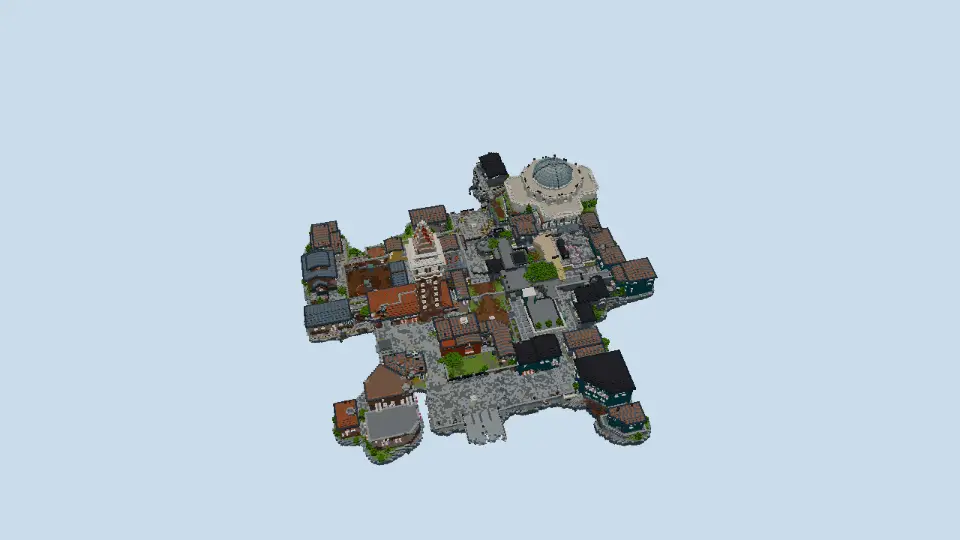
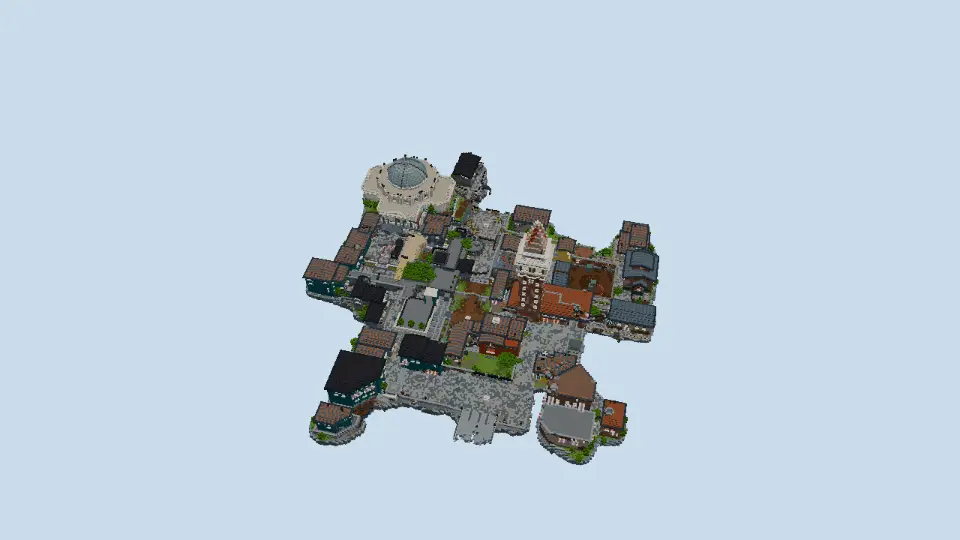
Dusk District is back, made our own: mirrored, with our own cover
User request: keep the map, change its structure a little.
- js/ascent-trial.js draws and collides the supplied terrain mirrored left
  to right (MIRROR): the sites, spawns and lanes swap sides (A right, B
  left); the faces' winding is put back so the lighting is unchanged.
- ownCover() stands eight crate stacks of our own (two boxes each, with
  colliders) in mid and on the way to each site, only on flat clear floor
  away from sites and spawns, before the bots' navigation is built.
- Listed again (22 maps); the dev flag and the tests' use of it are gone.
  The terrain file and its checks are unchanged. New overhead picture
  (?v=district-own-1), map page, credits and patch note.

Claude-Session: https://claude.ai/code/session_01T9NoSmLvW4H6Gnw8XUkAyE

Changed region(s): [[0.3125, 0.2667, 0.6875, 0.8593]]

diff --git a/js/ascent-trial.js b/js/ascent-trial.js
@@ -2,10 +2,9 @@
 (() => {
   'use strict';
   const trial=new URLSearchParams(location.search).get('ascent-trial')==='1';
-  // Dusk District is built on a layout the owner supplied (an outside game's map, permission not confirmed): since 2026-11-07
-  // it is out of the public map list, the home button and the site pages. It is still here, and listed, with ?hidden-maps=1
-  // (or localStorage dfdf_hidden_maps=1) for development and its checks; a room that still names it can load it.
-  const listed=trial||new URLSearchParams(location.search).get('hidden-maps')==='1'||(()=>{try{return localStorage.getItem('dfdf_hidden_maps')==='1';}catch(e){return false;}})();
+  // Dusk District: the supplied layout, made our own on 2026-11-07 (mirrored, with our own cover; see MIRROR and ownCover
+  // below). It was out of the public list for a day and is back in it at the owner's request.
+  const listed=true;
   const KEY='ascent_trial', S=window.ASCENT_TRIAL={status:'idle',active:false,meshes:[],meta:null,listed};
   const panel=document.createElement('section');panel.id='ascent-trial';panel.setAttribute('aria-label','황혼 지구 불러오기');
   panel.style.cssText='position:fixed;left:16px;bottom:18px;z-index:10020;max-width:380px;padding:18px;background:#101c29f2;color:#eef6ff;border:1px solid #64b8b0;border-radius:12px;font:14px/1.6 sans-serif;box-shadow:0 8px 32px #0008';
@@ -49,7 +48,11 @@
   const profileFor=mode=>mode==='mobile'?'mobile':'original';
   const on=()=>S.active&&CUR_MAP_KEY===KEY;
   const horizontalScale=()=>S.meta.horizontalScale||S.meta.scale;
-  const sourcePoint=(x,z,y=7.5)=>({x:(x-S.meta.sourceCropMin[0]-S.meta.dimensions[0]/2)*horizontalScale(),z:(z-S.meta.sourceCropMin[2]-S.meta.dimensions[2]/2)*horizontalScale(),y});
+  // Our own layout (2026-11-07, the owner's request: "구조만 조금 바꿔서"): the supplied terrain is drawn and collided
+  // mirrored left to right, so the sites, the spawns and every lane are on the other side, and our own cover stands in
+  // mid and on the site approaches (ownCover below). The terrain file itself is unchanged (its checks stay as they were).
+  const MIRROR=-1;
+  const sourcePoint=(x,z,y=7.5)=>({x:MIRROR*(x-S.meta.sourceCropMin[0]-S.meta.dimensions[0]/2)*horizontalScale(),z:(z-S.meta.sourceCropMin[2]-S.meta.dimensions[2]/2)*horizontalScale(),y});
   function nearby(x,z,r=PR) {
     if (CHASH.dirty||!CHASH.buckets) chashBuild();
     const found=new Set(), out=[];
@@ -105,7 +108,7 @@
     renderProfile=null;
   }
   function clear() {
-    graphicsRevision++;clearMeshes();S.graphicsMessage='';S.graphicsStatus='idle';
+    graphicsRevision++;clearMeshes();clearCover();S.graphicsMessage='';S.graphicsStatus='idle';
     if(S.active){floor.visible=true;window.SITE_ZONES?.clear();delete world.spike.y;}
     S.active=false;navHeight=null;navEdges=null;S.nav=null;
     if(previousNav){NAV.length=0;NAV.push(...previousNav);GRID.cell=previousCell;previousNav=null;}
@@ -135,11 +138,11 @@
     for(let i=0;i<n;i++) {
       const p=16+i*24, q=Array.from({length:9},(_,a)=>(a<3?d.getUint16(p+a*2,true):d.getInt16(p+a*2,true))*units[a%3]),tile=palette?d.getUint16(p+21,true):0,info=palette?.tiles[tile],transparent=!!info?.transparent,k=Math.floor(q[0]/chunkSize)+','+Math.floor(q[2]/chunkSize)+','+Math.floor(q[1]/chunkSize)+','+transparent;
       if(!chunks.has(k))chunks.set(k,{pos:[],normal:[],color:[],uv:[],atlas:[],indices:[],transparent});
-      const c=chunks.get(k),base=c.pos.length/3,u=q.slice(3,6),v=q.slice(6,9),normal=new T.Vector3(...u).cross(new T.Vector3(...v)).normalize();
+      const c=chunks.get(k),base=c.pos.length/3,u=q.slice(3,6),v=q.slice(6,9),normal=new T.Vector3(...u).cross(new T.Vector3(...v)).normalize(),drawn=new T.Vector3(MIRROR*normal.x,normal.y,normal.z);
       const color=new T.Color((d.getUint8(p+18)<<16)|(d.getUint8(p+19)<<8)|d.getUint8(p+20));
       for(const [a,b] of [[0,0],[1,0],[1,1],[0,1]]) {
-        for(let j=0;j<3;j++)c.pos.push(q[j]+a*u[j]+b*v[j]+origin[j]);
-        c.normal.push(normal.x,normal.y,normal.z);c.color.push(color.r,color.g,color.b);
+        for(let j=0;j<3;j++)c.pos.push((q[j]+a*u[j]+b*v[j]+origin[j])*(j?1:MIRROR));
+        c.normal.push(drawn.x,drawn.y,drawn.z);c.color.push(color.r,color.g,color.b);
         if(palette){
           const pos=q.slice(0,3).map((x,j)=>(x+a*u[j]+b*v[j])/(units[j]*16)),n=normal;
           let uv=Math.abs(n.y)>.9?[pos[0],n.y>0?-pos[2]:pos[2]]:Math.abs(n.x)>.9?[n.x>0?-pos[2]:pos[2],pos[1]]:[n.z>0?pos[0]:-pos[0],pos[1]];
@@ -149,7 +152,8 @@
           c.atlas.push(x+pad,palette.height-y-pad-size,size,size);
         }
       }
-      c.indices.push(base,base+1,base+2,base,base+2,base+3);
+      // a mirror turns every face's winding round: put it back, so the lit side stays the front side
+      MIRROR>0?c.indices.push(base,base+1,base+2,base,base+2,base+3):c.indices.push(base,base+2,base+1,base,base+3,base+2);
     }
     for(const c of chunks.values()) {
       const g=new T.BufferGeometry();g.setAttribute('position',new T.Float32BufferAttribute(c.pos,3));g.setAttribute('normal',new T.Float32BufferAttribute(c.normal,3));g.setAttribute('color',new T.Float32BufferAttribute(c.color,3));g.setIndex(c.indices);g.computeBoundingSphere();
@@ -161,10 +165,52 @@
     let p=16+n*24;
     for(let i=0;i<count;i++,p+=12) {
       const b=Array.from({length:6},(_,a)=>d.getUint16(p+a*2,true)*units[a%3]+origin[a%3]);
-      COLLIDERS.push({minX:b[0],y0:b[1],minZ:b[2],maxX:b[3],h:b[4],maxZ:b[5],mesh:null,hp:Infinity,destructible:false,temp:false,ascent:true});
+      const x0=MIRROR>0?b[0]:-b[3],x1=MIRROR>0?b[3]:-b[0];
+      COLLIDERS.push({minX:x0,y0:b[1],minZ:b[2],maxX:x1,h:b[4],maxZ:b[5],mesh:null,hp:Infinity,destructible:false,temp:false,ascent:true});
     }
     CHASH.dirty=true;chashBuild();
   }
+  // ── our own cover: crate stacks in mid and on the way to each site, only where the floor is flat and clear ──
+  // (part of our own layout with the mirror above; placed before the bots' navigation is built, so they walk round them)
+  S.cover=[];
+  let coverMat=null,coverEdge=null;
+  function clearCover(){
+    for(const m of S.cover){scene.remove(m);m.geometry.dispose();}
+    S.cover.length=0;
+  }
+  function ownCover(){
+    clearCover();
+    coverMat||(coverMat=new T.MeshLambertMaterial({color:0x8a6b47}));coverEdge||(coverEdge=new T.MeshLambertMaterial({color:0x3b3f46}));
+    const L=S.meta.layout,mid=sourcePoint(...L.nodes.mid);
+    const sites=L.sites.map(([,x,z,y])=>sourcePoint(x,z,y)),keep=[...sites,sourcePoint(...L.attackSpawn),sourcePoint(...L.defendSpawn)];
+    const cands=[];
+    for(const d of [5,7.5])for(const s of [-1,1])cands.push({x:mid.x+s*d,z:mid.z,y:mid.y},{x:mid.x,z:mid.z+s*d,y:mid.y});
+    for(const t of sites)for(const f of [.35,.6]){
+      const len=Math.hypot(t.x-mid.x,t.z-mid.z)||1,px=-(t.z-mid.z)/len,pz=(t.x-mid.x)/len,x=mid.x+(t.x-mid.x)*f,z=mid.z+(t.z-mid.z)*f;
+      for(const s of [-1,1])cands.push({x:x+px*s*3.5,z:z+pz*s*3.5,y:mid.y+(t.y-mid.y)*f});
+    }
+    const placed=[];
+    for(const c of cands){
+      if(placed.length>=8)break;
+      const y=surface(c.x,c.z,c.y+4,1.6);
+      if(!Number.isFinite(y))continue;
+      // flat: the same floor under every corner; clear: nothing solid in the stack's room; not on a site or a spawn
+      if([[-1.2,-1.2],[1.2,-1.2],[-1.2,1.2],[1.2,1.2]].some(([dx,dz])=>Math.abs(surface(c.x+dx,c.z+dz,y+.5,.3)-y)>.3))continue;
+      if(nearby(c.x,c.z,1.8).some(b=>b.h>y+.2&&b.y0<y+2.6&&c.x+1.8>b.minX&&c.x-1.8<b.maxX&&c.z+1.8>b.minZ&&c.z-1.8<b.maxZ))continue;
+      if(keep.some(p=>Math.hypot(p.x-c.x,p.z-c.z)<6)||placed.some(p=>Math.hypot(p.x-c.x,p.z-c.z)<4.5))continue;
+      placed.push(c);
+      const boxes=[[0,0,2.2,1.5,2.2],[.35,1.5,1.2,.9,1.2]];
+      for(const [ox,oy,w,h,dpt] of boxes){
+        const cx=c.x+ox,cz=c.z+ox*.5;
+        const m=new T.Mesh(new T.BoxGeometry(w,h,dpt),coverMat);m.position.set(cx,y+oy+h/2,cz);m.userData.ascent=true;scene.add(m);S.cover.push(m);
+        const band=new T.Mesh(new T.BoxGeometry(w+.04,.12,dpt+.04),coverEdge);band.position.set(cx,y+oy+h-.06,cz);band.userData.ascent=true;scene.add(band);S.cover.push(band);
+        COLLIDERS.push({minX:cx-w/2,y0:y+oy,minZ:cz-dpt/2,maxX:cx+w/2,h:y+oy+h,maxZ:cz+dpt/2,mesh:null,hp:Infinity,destructible:false,temp:false,ascent:true,cover:true});
+      }
+    }
+    CHASH.dirty=true;chashBuild();
+    return placed.length;
+  }
+  S.ownCover=()=>S.cover.length;
   // A street under a bridge and the bridge deck are separate navigation nodes.
   // Sampling just one height per x/z disconnected the supplied map's real lanes.
   const DIRS=[[1,0],[-1,0],[0,1],[0,-1]],REVERSE=[1,0,3,2];
@@ -338,7 +384,7 @@
     POST.tint=[1.02,1,.98];POST.lift=[0,0,0];POST.sat=.96;POST.contrast=1;POST.vignette=.12;
     hemi.color.setHex(0xdceaf4);hemi.groundColor.setHex(0xa59388);hemi.intensity=1;
     sun.color.setHex(0xffd7ae);sun.intensity=1.05;renderer.toneMappingExposure=1;
-    geometry(renderAssets.get(profileFor(SETTINGS.quality))||renderAssets.values().next().value,true);floor.visible=false;buildNav();window.SITE_ZONES?.rebuild();
+    geometry(renderAssets.get(profileFor(SETTINGS.quality))||renderAssets.values().next().value,true);floor.visible=false;S.coverPlaced=ownCover();buildNav();window.SITE_ZONES?.rebuild();
     S.applyGraphics(SETTINGS.quality);
     NAV.length=0;NAV.push(...Object.values(MAP.nodes));
     if(VM.root&&!VM.root.parent)scene.add(VM.root);

diff --git a/maps.html b/maps.html
@@ -3,16 +3,16 @@
 <html lang="ko">
 <head>
 <meta charset="utf-8">
-<title>맵 21곳 | 13</title>
+<title>맵 22곳 | 13</title>
 <meta name="viewport" content="width=device-width,initial-scale=1,viewport-fit=cover">
 <meta name="theme-color" content="#0a0d12">
-<meta name="description" content="13의 맵 21곳을 크기별(5대5, 소규모 3대3, 1대1)로 소개합니다. 각 맵의 구조와 특징, 공략 팁, 매주 바뀌는 이번 주 맵 규칙까지.">
+<meta name="description" content="13의 맵 22곳을 크기별(5대5, 소규모 3대3, 1대1)로 소개합니다. 각 맵의 구조와 특징, 공략 팁, 매주 바뀌는 이번 주 맵 규칙까지.">
 <link rel="canonical" href="https://13fps.xyz/maps.html">
 <meta property="og:site_name" content="13">
 <meta property="og:type" content="website">
 <meta property="og:locale" content="ko_KR">
-<meta property="og:title" content="맵 21곳 | 13">
-<meta property="og:description" content="13의 맵 21곳을 크기별(5대5, 소규모 3대3, 1대1)로 소개합니다. 각 맵의 구조와 특징, 공략 팁, 매주 바뀌는 이번 주 맵 규칙까지.">
+<meta property="og:title" content="맵 22곳 | 13">
+<meta property="og:description" content="13의 맵 22곳을 크기별(5대5, 소규모 3대3, 1대1)로 소개합니다. 각 맵의 구조와 특징, 공략 팁, 매주 바뀌는 이번 주 맵 규칙까지.">
 <meta property="og:url" content="https://13fps.xyz/maps.html">
 <meta property="og:image" content="https://13fps.xyz/icons/icon-512.png">
 <meta name="twitter:card" content="summary">
@@ -31,13 +31,13 @@
 </div></header>
 <main id="main" class="wrap">
 <article class="page wide">
-<h1>맵 21곳</h1>
-<p class="lead">13의 맵은 팀 크기에 따라 세 종류입니다. 5대5 10곳, 소규모 3대3 8곳, 1대1 3곳을 모두 소개합니다.</p>
-<nav class="filters" aria-label="맵 종류로 이동"><a href="#cat-full">5대5 10곳</a><a href="#cat-small">소규모 3대3 8곳</a><a href="#cat-1v1">1대1 3곳</a><a href="#week">이번 주 맵</a></nav>
+<h1>맵 22곳</h1>
+<p class="lead">13의 맵은 팀 크기에 따라 세 종류입니다. 5대5 11곳, 소규모 3대3 8곳, 1대1 3곳을 모두 소개합니다.</p>
+<nav class="filters" aria-label="맵 종류로 이동"><a href="#cat-full">5대5 11곳</a><a href="#cat-small">소규모 3대3 8곳</a><a href="#cat-1v1">1대1 3곳</a><a href="#week">이번 주 맵</a></nav>
 <h2>맵을 읽는 법</h2>
 <p>아래 그림은 공격 팀 출발 지점 뒤에서 맵 한가운데를 내려다본 모습입니다. 그림의 아래쪽이 공격 팀의 출발 지점이고 위쪽이 수비 팀의 출발 지점이며, 분홍빛 원은 폭탄을 설치하는 사이트입니다. 사이트는 대부분 A와 B 두 곳이고, 세 곳(A, B, C)이 있는 맵도 있습니다. 크기는 가로×세로 미터입니다.</p>
 <p>팀 크기는 방의 빈자리에도 영향을 줍니다. 소규모 맵에서는 한 팀이 세 명, 결투 맵에서는 한 명이고, 남는 자리는 닫힙니다. 팀 데스매치와 데스매치의 킬 목표도 맵 크기에 맞춰 줄어듭니다.</p>
-<h2 id="cat-full">5대5 맵 10곳</h2><p>정식 대전용 큰 맵입니다. 한 팀 다섯 명이 길을 나눠 맡고, 사이트 둘 또는 셋을 두고 겨룹니다.</p><div class="maps"><section class="map" id="map-pogu">
+<h2 id="cat-full">5대5 맵 11곳</h2><p>정식 대전용 큰 맵입니다. 한 팀 다섯 명이 길을 나눠 맡고, 사이트 둘 또는 셋을 두고 겨룹니다.</p><div class="maps"><section class="map" id="map-pogu">
 <img src="./assets/site/maps/pogu.webp" alt="포구 맵을 위에서 본 모습" width="960" height="540" loading="lazy">
 <div class="body"><h3>포구</h3>
 <p class="facts"><span class="tag red">5대5</span><span class="tag">148×160m</span><span class="tag">사이트 A · B</span><span class="tag gold">저녁빛 항구 마을</span></p>
@@ -96,6 +96,12 @@
 <div class="body"><h3>폐병원</h3>
 <p class="facts"><span class="tag red">5대5</span><span class="tag">120×100m</span><span class="tag">사이트 A · B</span><span class="tag gold">3층짜리 폐병원 미로</span></p>
 <p>건물 전체가 미로인 폐병원입니다. 1층은 응급실, 중앙 로비, 하역장의 입구 셋과 5m 크기의 방들로 이어진 병동 둘, 30m 크기의 중앙 아트리움이 있고, 뒤쪽에 수술실(A)과 약품 창고(B), 그 사이에 수비 팀의 중환자실이 있습니다. 2층에는 아트리움을 둘러싼 발코니에서 아래로 쏠 수 있고, 3층에는 지붕 아래 두 날개 미로와 옥상 데크, 아트리움을 가로지르는 다리가 있습니다. 바닥은 진짜 층이라 그 아래와 위를 따로 걸을 수 있습니다.</p><p><b>팁</b> 층이 여러 개라서 머리 위와 발밑도 확인해야 합니다. 봇은 1층에서만 움직입니다.</p></div>
+</section>
+<section class="map" id="map-ascent_trial">
+<img src="./assets/site/maps/ascent_trial.webp?v=district-own-1" alt="황혼 지구 맵을 위에서 본 모습" width="960" height="540" loading="lazy">
+<div class="body"><h3>황혼 지구</h3>
+<p class="facts"><span class="tag red">5대5</span><span class="tag">361×390m</span><span class="tag">사이트 A · B</span><span class="tag gold">좌우가 뒤바뀐 넓은 중앙과 두 설치 구역</span></p>
+<p>제공받은 블록 맵 구조를 바탕으로 좌우를 뒤집고, 중앙과 각 설치 구역 진입로에 이 게임의 상자 엄폐물을 더한 5대5 지구입니다. 구리색 지붕·푸른 석재·밝은 벽과 조명은 이 게임에서 직접 만들었습니다.</p><p><b>팁</b> A 거점은 오른쪽, B 거점은 왼쪽입니다. 중앙의 상자 더미를 끼고 도는 길이 짧습니다.</p></div>
 </section></div>
 <h2 id="cat-small">소규모 3대3 맵 8곳</h2><p>한 팀 세 명이 하기 좋은 작은 맵입니다. 길이 짧아 교전이 빨리 시작됩니다. 장벽이 움직이는 시프트 아레나와 달리는 열차 같은 변칙 맵도 여기 있습니다.</p><div class="maps"><section class="map" id="map-shift">
 <img src="./assets/site/maps/shift.webp" alt="시프트 아레나 맵을 위에서 본 모습" width="960" height="540" loading="lazy">
@@ -164,7 +170,7 @@
 <p>모래색 바닥에 가로로 넓은 1대1 마당입니다. 가운데에 돌 단상이 있고 지붕이 어두운 전각 네 채가 대각선으로 놓여 있습니다.</p><p><b>팁</b> 가로로 넓어 측면에서 돌아 들어가기 쉽습니다. 단상을 차지하면 양쪽이 보입니다.</p></div>
 </section></div>
 <h2 id="week">이번 주 맵</h2>
-<p>정규 목록 21곳 말고도, 평소에는 목록에서 빠져 있는 맵 36곳이 더 있습니다. 매주 월요일 0시(한국 시간)가 되면 그중 한 곳이 "이번 주 맵"으로 일주일 동안 맵 목록 맨 앞에 올라옵니다. 모든 이용자에게 같은 맵이 보이고, 한 바퀴를 다 돌기 전에는 같은 맵이 다시 나오지 않습니다. 이번 주 맵은 첫 화면의 게임 설명 줄에도 표시됩니다. 운영자가 이 기능을 끌 수도 있습니다.</p>
+<p>정규 목록 22곳 말고도, 평소에는 목록에서 빠져 있는 맵 36곳이 더 있습니다. 매주 월요일 0시(한국 시간)가 되면 그중 한 곳이 "이번 주 맵"으로 일주일 동안 맵 목록 맨 앞에 올라옵니다. 모든 이용자에게 같은 맵이 보이고, 한 바퀴를 다 돌기 전에는 같은 맵이 다시 나오지 않습니다. 이번 주 맵은 첫 화면의 게임 설명 줄에도 표시됩니다. 운영자가 이 기능을 끌 수도 있습니다.</p>
 <p>맵마다 어울리는 모드가 있습니다. <a href="./modes.html">모드 소개</a>에서 규칙을 확인하고, 요원 조합은 <a href="./agents.html">요원 소개</a>를 참고하세요.</p>
 </article>
 </main>

diff --git a/index.html b/index.html
@@ -364,7 +364,7 @@ html[lang=en] .intro[lang=ko],html:not([lang=en]) .intro[lang=en]{display:none}
   <section class="intro" lang="ko">
     <h2>13은 이런 게임입니다</h2>
     <p>13은 설치 없이 브라우저에서 바로 하는 5대5 전술 슈터입니다. 공격 팀은 폭탄을 설치하고 수비 팀은 이를 막으며, 요원마다 다른 능력으로 길을 엽니다. 혼자서는 AI와, 친구와는 초대 코드로 함께 할 수 있고 컴퓨터와 스마트폰 모두 됩니다. 처음이라면 게임 소개와 조작법부터 읽어 보세요. 모드, 맵, 요원마다 설명한 글도 있습니다.</p>
-    <nav class="ilinks" aria-label="게임 설명"><a href="./guide.html">게임 소개</a><a href="./controls.html">조작법</a><a href="./modes.html">모드 11종</a><a href="./maps.html">맵 21곳</a><a href="./agents.html">요원 28명</a></nav>
+    <nav class="ilinks" aria-label="게임 설명"><a href="./guide.html">게임 소개</a><a href="./controls.html">조작법</a><a href="./modes.html">모드 11종</a><a href="./maps.html">맵 22곳</a><a href="./agents.html">요원 28명</a></nav>
   </section>
   <section class="intro" lang="en">
     <h2>About 13</h2>
@@ -396,8 +396,8 @@ const T = {
     banned: "이용이 제한되었습니다", until: "까지", forever: "영구", reason: "사유",
     offline: "지금은 계정 서버에 연결할 수 없습니다. 게스트로 들어가면 혼자 하기와 코드 참가는 그대로 됩니다.",
     about: "게임", privacy: "개인정보처리방침", pgGuide: "게임 소개", pgControls: "조작법", pgModes: "모드", pgMaps: "맵", pgAgents: "요원", pgPatch: "패치노트", pgAbout: "소개", pgContact: "문의", pgTerms: "이용규칙", pgCredits: "제작·출처", pgPrivacyChoices: "개인정보 설정", guestTag: "게스트", lvNext: (p) => `다음 단계까지 ${p}%`,
-    featWeek: " · 이번 주 맵 1곳 포함 시 22곳",
-    feat: ["<b>모드 11종</b> — 일반전·신속전·폭탄 돌격·팀 데스매치·데스매치·칼 대난투·총기 순환·감염·점령전·깃발 탈취·축소전", "<b>요원 28명</b> — 능력 112개가 전부 다릅니다. 같은 능력을 가진 요원은 없습니다", "<b>상시 전장 21곳</b> — 5대5 10곳 · 소규모 3대3 8곳 · 1대1 3곳{wk}. 2층이 있는 포구, 밤의 항구, 옥상이 이어진 도시", "<b>총 18종 · 나이프 · 수류탄</b> — RPG까지, 전부 다른 모양과 소리", "<b>총 스킨 뽑기</b> — 경기마다 골드, 공통 뽑기 스킨 30종 × 총 18종. 칼·전용 스킨까지 전체 수집 601종. 등급이 높을수록 모션과 연출이 화려해집니다", "<b>같이 하기</b> — 서버별 방 목록, 방 만들기, 초대 코드", "<b>모바일</b> — 터치 조작, 앱 설치, 폰 전용 서버"],
+    featWeek: " · 이번 주 맵 1곳 포함 시 23곳",
+    feat: ["<b>모드 11종</b> — 일반전·신속전·폭탄 돌격·팀 데스매치·데스매치·칼 대난투·총기 순환·감염·점령전·깃발 탈취·축소전", "<b>요원 28명</b> — 능력 112개가 전부 다릅니다. 같은 능력을 가진 요원은 없습니다", "<b>상시 전장 22곳</b> — 5대5 11곳 · 소규모 3대3 8곳 · 1대1 3곳{wk}. 2층이 있는 포구, 밤의 항구, 옥상이 이어진 도시", "<b>총 18종 · 나이프 · 수류탄</b> — RPG까지, 전부 다른 모양과 소리", "<b>총 스킨 뽑기</b> — 경기마다 골드, 공통 뽑기 스킨 30종 × 총 18종. 칼·전용 스킨까지 전체 수집 601종. 등급이 높을수록 모션과 연출이 화려해집니다", "<b>같이 하기</b> — 서버별 방 목록, 방 만들기, 초대 코드", "<b>모바일</b> — 터치 조작, 앱 설치, 폰 전용 서버"],
   },
   en: {
     skipContent:"Skip to content",entryKicker:"No install · Free to play · Play together",entryHeading:"Open the way with abilities in a 5v5 tactical FPS",entryLead:"Attackers plant the bomb. Defenders stop them or defuse it. Use four agent abilities to open routes for your team, practise solo against AI, or invite friends to play together.",entryStart:"Start for free",entryGuide:"How to play (Korean)",entryLogin:"Have an account? Sign in / Sign up",entryCaption:"An actual in-game map view of our original Pogu battlefield. Take routes through buildings and across rooftops.",entryStep1:"01 · Learn the controls",entryDetail1:"Use a keyboard and mouse on a computer, or touch controls on a phone. Practise movement and shooting in the range.",entryStep2:"02 · Play your role",entryDetail2:"Buy weapons and armour between rounds. Use agent abilities to enter or defend a site.",entryStep3:"03 · Team up with friends",entryDetail3:"Create a room and share its invite code. Guests can start with solo play and code-based room entry.",
@@ -413,8 +413,8 @@ const T = {
     banned: "Your access is restricted", until: "until", forever: "permanently", reason: "Reason",
     offline: "The account server is not reachable right now. As a guest, solo play and joining by code still work.",
     about: "The game", privacy: "Privacy policy", pgGuide: "Guide", pgControls: "Controls", pgModes: "Modes", pgMaps: "Maps", pgAgents: "Agents", pgPatch: "Patch notes", pgAbout: "About", pgContact: "Contact", pgTerms: "Rules", pgCredits: "Credits", pgPrivacyChoices: "Privacy settings", guestTag: "Guest", lvNext: (p) => `${p}% to the next division`,
-    featWeek: ", or 22 including the map of the week",
-    feat: ["<b>11 modes</b> — Standard, Swift, Bomb Rush, Team Deathmatch, Deathmatch, Knife Fight, Gun Game, Infection, Conquest, Capture the Flag, Shrinking Zone", "<b>28 agents</b> — 112 abilities, no two alike", "<b>21 permanent maps</b> — 10 for 5v5, 8 small 3v3, 3 duels{wk}: Pogu with real second floors, a harbor at night, a city of rooftops, a three-floor abandoned hospital maze", "<b>18 guns · knife · grenades</b> — an RPG too, each with its own look and sound", "<b>Gun skin pulls</b> — gold after every match, 30 skins × 18 guns in the shared pull pool; 601 collectible items including knife and exclusive skins; higher tiers add flourishes and effects", "<b>Play together</b> — rooms by server, make a room, invite codes", "<b>Mobile</b> — touch controls, installable app, phone-only server"],
+    featWeek: ", or 23 including the map of the week",
+    feat: ["<b>11 modes</b> — Standard, Swift, Bomb Rush, Team Deathmatch, Deathmatch, Knife Fight, Gun Game, Infection, Conquest, Capture the Flag, Shrinking Zone", "<b>28 agents</b> — 112 abilities, no two alike", "<b>22 permanent maps</b> — 11 for 5v5, 8 small 3v3, 3 duels{wk}: Pogu with real second floors, a harbor at night, a city of rooftops, a three-floor abandoned hospital maze", "<b>18 guns · knife · grenades</b> — an RPG too, each with its own look and sound", "<b>Gun skin pulls</b> — gold after every match, 30 skins × 18 guns in the shared pull pool; 601 collectible items including knife and exclusive skins; higher tiers add flourishes and effects", "<b>Play together</b> — rooms by server, make a room, invite codes", "<b>Mobile</b> — touch controls, installable app, phone-only server"],
   },
 };
 let L = localStorage.getItem("lgp_lang") || ((navigator.language || "ko").startsWith("ko") ? "ko" : "en");

diff --git a/agents.html b/agents.html
@@ -63,8 +63,8 @@
 <ul class="abil"><li><span class="k">Q</span><b>도탄 <small style="color:var(--steel);font-weight:400">라운드마다 채움</small></b><span>8초간 내 공격이 튕긴다. 적에게 맞으면 9m 안의 다른 적에게 절반 피해로 한 번 더 튄다.</span></li><li><span class="k">E</span><b>속사 <small style="color:var(--steel);font-weight:400">재사용 24초</small></b><span>탄창을 즉시 가득 채우고 5초간 연사 속도 60% 증가, 재장전은 두 배 빠르게.</span></li><li><span class="k">C</span><b>현상금 <small style="color:var(--steel);font-weight:400">2회 · 라운드마다 채움</small></b><span>조준한 적(50m)에게 12초 현상금을 건다. 그 적을 우리 팀이 쓰러뜨리면 팀 전원 궁극기 1칸, 처치한 사람 체력 +30.</span></li><li><span class="k ult">X</span><b>결투 <small style="color:var(--steel);font-weight:400">궁극기 · 충전 8점</small></b><span>궁극기 — 조준한 적(40m)과 8초 결투. 둘은 원 밖으로 못 나가고 다른 누구도 들어오거나 끼어들 수 없다. 내가 주는 피해 25% 증가, 이기면 체력 +50.<em>상대하는 법: 결투 안에서는 엄폐와 거리로 시전자의 강화 시간을 버티세요.</em></span></li></ul>
 </section>
 <section class="agent" id="agent-neon_agent" style="--ac:#41cfff">
-<div style="display:flex;gap:14px;align-items:flex-start"><img src="./assets/site/agents/neon_agent.webp" alt="전광 초상" width="96" height="122" loading="lazy" style="flex:none;border-radius:12px;background:#0d121a;width:96px;height:auto"><div style="min-width:0"><h3>전광<span class="role">타격대</span></h3><p class="quote">“멈추면 지는 거야.”</p><p class="desc">몸에 전류를 두른 배달원 출신 돌격수. 붙는 전극탄으로 두 번 흔들고, 전류 장막으로 앞을 가리고, 질주와 미끄러지기로 누구보다 먼저 닿는다.</p></div></div>
-<ul class="abil"><li><span class="k">Q</span><b>이중 전격 <small style="color:var(--steel);font-weight:400">2회 · 라운드마다 채움</small></b><span>닿은 곳에 붙는 전극탄. 0.5초 뒤와 1.2초 더 뒤, 두 번 반경 4m에 전기가 터져 각각 1초 뇌진탕. 튕기지 않고, 벽 너머의 적에게는 닿지 않는다.</span></li><li><span class="k">E</span><b>질주 회로 <small style="color:var(--steel);font-weight:400">재사용 30초</small></b><span>8초간 이동 속도 +30%. 좌클릭(모바일 사격)으로 5m 미끄러지며 질주를 끝내고 무기로 돌아온다. 처치할 때마다 미끄러지기가 다시 찬다.</span></li><li><span class="k">C</span><b>전류 장막 <small style="color:var(--steel);font-weight:400">라운드마다 채움</small></b><span>구슬이 9m 앞까지 달려가 그 자리에 폭 14m, 높이 3.5m 전류 장막을 가로로 세운다. 6초간 앞쪽 시야를 막는다.</span></li><li><span class="k ult">X</span><b>과충전 <small style="color:var(--steel);font-weight:400">궁극기 · 충전 8점</small></b><span>14초 동안 총 대신 손끝에서 32m 전기 빔을 쏜다. 0.12초마다 피해 21. 궁극기 중 좌클릭은 빔, 우클릭은 미끄러지기.<em>상대하는 법: 빔 사선을 엄폐하고 슬라이딩 후 위치를 다시 확인하세요.</em></span></li></ul>
+<div style="display:flex;gap:14px;align-items:flex-start"><img src="./assets/site/agents/neon_agent.webp" alt="전광 초상" width="96" height="122" loading="lazy" style="flex:none;border-radius:12px;background:#0d121a;width:96px;height:auto"><div style="min-width:0"><h3>전광<span class="role">타격대</span></h3><p class="quote">“멈추면 지는 거야.”</p><p class="desc">몸에 전류를 두른 배달원 출신 돌격수. 붙는 전극탄으로 두 번 흔들고, 양옆에 연막 장막을 세우고, 질주와 미끄러지기로 누구보다 먼저 닿는다.</p></div></div>
+<ul class="abil"><li><span class="k">Q</span><b>이중 전격 <small style="color:var(--steel);font-weight:400">2회 · 라운드마다 채움</small></b><span>닿은 곳에 붙는 전극탄. 0.5초 뒤와 1.2초 더 뒤, 두 번 반경 4m에 전기가 터져 각각 1초 뇌진탕. 튕기지 않고, 벽 너머의 적에게는 닿지 않는다.</span></li><li><span class="k">E</span><b>질주 회로 <small style="color:var(--steel);font-weight:400">재사용 30초</small></b><span>8초간 이동 속도 +30%. 좌클릭(모바일 사격)으로 5m 미끄러지며 질주를 끝내고 무기로 돌아온다. 처치할 때마다 미끄러지기가 다시 찬다.</span></li><li><span class="k">C</span><b>전류 장막 <small style="color:var(--steel);font-weight:400">라운드마다 채움</small></b><span>구슬이 앞으로 22m를 달리며 그 길 양옆에 높이 4m 연막 장막을 세운다. 6초간 양옆이 보이지 않는다. 가운데 3m 길로 지나가며 쏠 수 있다.</span></li><li><span class="k ult">X</span><b>과충전 <small style="color:var(--steel);font-weight:400">궁극기 · 충전 8점</small></b><span>14초 동안 총 대신 손끝에서 32m 전기 빔을 쏜다. 0.12초마다 피해 21. 궁극기 중 좌클릭은 빔, 우클릭은 미끄러지기.<em>상대하는 법: 빔 사선을 엄폐하고 슬라이딩 후 위치를 다시 확인하세요.</em></span></li></ul>
 </section></div>
 <h2 id="role-감시자">감시자 8명</h2><div class="agents"><section class="agent" id="agent-seorin" style="--ac:#4fc3f7">
 <div style="display:flex;gap:14px;align-items:flex-start"><img src="./assets/site/agents/seorin.webp" alt="서린 초상" width="96" height="122" loading="lazy" style="flex:none;border-radius:12px;background:#0d121a;width:96px;height:auto"><div style="min-width:0"><h3>서린<span class="role">감시자</span></h3><p class="quote">“기다리는 쪽이 이긴다.”</p><p class="desc">지역을 잠그는 방어형. 얼음으로 길을 닫고 발을 묶는다.</p></div></div>

diff --git a/scripts/site-pages/credits.js b/scripts/site-pages/credits.js
@@ -4,7 +4,7 @@ module.exports={
  lead:'직접 만든 부분과 외부 자료를 구분해 기록합니다. 출처 표기는 필요한 사용 허가를 대신하지 않습니다.',
  body:`<h2>게임과 자체 제작물</h2><p>13의 게임 코드와 요원·총기 표현, 절차적으로 생성하는 맵·재질·음향은 이 프로젝트에서 만듭니다. 챔피언스 총 모델·공격/수비 텍스처·마무리·배너·합성 음악은 저장소의 자체 생성 스크립트로 만듭니다. 제공된 JAR는 참고 자료이며 총 원본 파일을 기본 패키지에 복사하지 않습니다. 이 설명은 제작 경로를 말하며 다른 작품의 보호되는 외형·음악·상표에 대한 허가를 주장하는 문구가 아닙니다.</p>
 <h2>칼 디자인</h2><p>SGH나비칼의 모양과 텍스처는 이 프로젝트의 생성 스크립트로 만듭니다. 손잡이가 돌아가는 동작과 관련 소리는 사용자가 유지하도록 지정한 예외로, 제공된 Knife Pack의 나비칼 애니메이션·소리를 그대로 사용하며 자체 창작물로 표시하지 않습니다. 나머지 칼 10종은 이 프로젝트에서 형상을 생성하고 기존 손 위치와 모션을 유지합니다. 파일별 제작 경로와 지문은 패키지 manifest와 자산 출처 기록으로 관리합니다.</p>
-<h2>맵과 블록 표현</h2><p>공개 맵 목록의 맵은 모두 이 게임이 직접 만든 배치입니다. 다른 게임의 맵 구조를 바탕으로 한 개발용 맵(황혼 지구)은 2026년 11월 7일부터 공개 목록과 이 사이트에서 뺐습니다. 사막 마을은 삭제 상태를 유지합니다.</p>
+<h2>맵과 블록 표현</h2><p>황혼 지구는 사용자가 제공한 블록 맵 구조(ascent-final2021.schematic)를 바탕으로, 좌우를 뒤집고 이 게임의 엄폐물을 더해 고친 맵입니다. 구리색 지붕·푸른 석재·밝은 벽과 조명은 이 프로젝트에서 만들며, 다른 게임의 원본 텍스처를 포함하지 않습니다. 구조의 출처와 자체 변경을 구분해 기록하고, 제공 사실이나 변경을 제3자의 사용 허가로 표시하지 않습니다. 사막 마을은 삭제 상태를 유지합니다.</p>
 <h2>사진 재질과 하늘 조명</h2><p>표면 재질은 <a href="https://ambientcg.com" rel="noopener" target="_blank">ambientCG</a>와 <a href="https://polyhaven.com" rel="noopener" target="_blank">Poly Haven</a>의 CC0 자료를 바탕으로 크기와 채널을 게임에 맞게 가공했습니다. 하늘 조명도 Poly Haven HDRI를 사용합니다. 세부 원본 이름과 가져온 경로는 저장소 assets/CREDITS.md에 기록합니다.</p>
 <h2>글꼴과 라이브러리</h2><p>제목과 큰 숫자에 갈무리11 Bold를, 본문에 Pretendard Variable을 사용합니다. 두 글꼴은 SIL Open Font License에 따라 제공하며 <a href="./assets/fonts/galmuri-2.40.3/OFL.txt">갈무리 라이선스</a>와 <a href="./assets/fonts/pretendard-1.3.9/OFL.txt">Pretendard 라이선스</a>를 함께 배포합니다. 게임의 일부 연출과 지도 표시는 Google Fonts의 Orbitron과 Noto Sans KR을 사용합니다. 3D 렌더링에는 Three.js(MIT), 연결에는 PeerJS(MIT)를 사용합니다. 외부 서비스의 접속 정보 처리는 <a href="./privacy.html#external">개인정보 안내</a>에 설명합니다.</p>
 <h2>비공식 독립 프로젝트</h2><p>이 게임은 개인이 운영하는 독립 프로젝트입니다. 다른 게임 회사의 공식 서비스나 제휴·후원·승인을 받은 서비스라고 표시하지 않습니다. 비공식이라는 안내만으로 제3자의 콘텐츠를 사용할 권한이 생기지는 않습니다.</p>

diff --git a/credits.html b/credits.html
@@ -35,7 +35,7 @@
 <p class="lead">직접 만든 부분과 외부 자료를 구분해 기록합니다. 출처 표기는 필요한 사용 허가를 대신하지 않습니다.</p>
 <h2>게임과 자체 제작물</h2><p>13의 게임 코드와 요원·총기 표현, 절차적으로 생성하는 맵·재질·음향은 이 프로젝트에서 만듭니다. 챔피언스 총 모델·공격/수비 텍스처·마무리·배너·합성 음악은 저장소의 자체 생성 스크립트로 만듭니다. 제공된 JAR는 참고 자료이며 총 원본 파일을 기본 패키지에 복사하지 않습니다. 이 설명은 제작 경로를 말하며 다른 작품의 보호되는 외형·음악·상표에 대한 허가를 주장하는 문구가 아닙니다.</p>
 <h2>칼 디자인</h2><p>SGH나비칼의 모양과 텍스처는 이 프로젝트의 생성 스크립트로 만듭니다. 손잡이가 돌아가는 동작과 관련 소리는 사용자가 유지하도록 지정한 예외로, 제공된 Knife Pack의 나비칼 애니메이션·소리를 그대로 사용하며 자체 창작물로 표시하지 않습니다. 나머지 칼 10종은 이 프로젝트에서 형상을 생성하고 기존 손 위치와 모션을 유지합니다. 파일별 제작 경로와 지문은 패키지 manifest와 자산 출처 기록으로 관리합니다.</p>
-<h2>맵과 블록 표현</h2><p>공개 맵 목록의 맵은 모두 이 게임이 직접 만든 배치입니다. 다른 게임의 맵 구조를 바탕으로 한 개발용 맵(황혼 지구)은 2026년 11월 7일부터 공개 목록과 이 사이트에서 뺐습니다. 사막 마을은 삭제 상태를 유지합니다.</p>
+<h2>맵과 블록 표현</h2><p>황혼 지구는 사용자가 제공한 블록 맵 구조(ascent-final2021.schematic)를 바탕으로, 좌우를 뒤집고 이 게임의 엄폐물을 더해 고친 맵입니다. 구리색 지붕·푸른 석재·밝은 벽과 조명은 이 프로젝트에서 만들며, 다른 게임의 원본 텍스처를 포함하지 않습니다. 구조의 출처와 자체 변경을 구분해 기록하고, 제공 사실이나 변경을 제3자의 사용 허가로 표시하지 않습니다. 사막 마을은 삭제 상태를 유지합니다.</p>
 <h2>사진 재질과 하늘 조명</h2><p>표면 재질은 <a href="https://ambientcg.com" rel="noopener" target="_blank">ambientCG</a>와 <a href="https://polyhaven.com" rel="noopener" target="_blank">Poly Haven</a>의 CC0 자료를 바탕으로 크기와 채널을 게임에 맞게 가공했습니다. 하늘 조명도 Poly Haven HDRI를 사용합니다. 세부 원본 이름과 가져온 경로는 저장소 assets/CREDITS.md에 기록합니다.</p>
 <h2>글꼴과 라이브러리</h2><p>제목과 큰 숫자에 갈무리11 Bold를, 본문에 Pretendard Variable을 사용합니다. 두 글꼴은 SIL Open Font License에 따라 제공하며 <a href="./assets/fonts/galmuri-2.40.3/OFL.txt">갈무리 라이선스</a>와 <a href="./assets/fonts/pretendard-1.3.9/OFL.txt">Pretendard 라이선스</a>를 함께 배포합니다. 게임의 일부 연출과 지도 표시는 Google Fonts의 Orbitron과 Noto Sans KR을 사용합니다. 3D 렌더링에는 Three.js(MIT), 연결에는 PeerJS(MIT)를 사용합니다. 외부 서비스의 접속 정보 처리는 <a href="./privacy.html#external">개인정보 안내</a>에 설명합니다.</p>
 <h2>비공식 독립 프로젝트</h2><p>이 게임은 개인이 운영하는 독립 프로젝트입니다. 다른 게임 회사의 공식 서비스나 제휴·후원·승인을 받은 서비스라고 표시하지 않습니다. 비공식이라는 안내만으로 제3자의 콘텐츠를 사용할 권한이 생기지는 않습니다.</p>

diff --git a/scripts/site-pages/maps.js b/scripts/site-pages/maps.js
@@ -25,6 +25,7 @@ const TEXT = {
   d01: ["서리 낀 결투장", "서리가 낀 하얀 푸른 줄무늬 벽의 1대1 결투장입니다. 가운데에 구조물이 하나 있고 양옆에 큰 블록이 있어서 돌아가는 길이 두 갈래입니다.", "1대1에서는 발소리가 가장 큰 정보입니다. 방향이 들리니 귀를 열어 두세요."],
   d03: ["분홍 네온의 링", "분홍빛 네온 벽으로 둘러싸인 1대1 결투장입니다. 가운데에 아치형 엄폐물이 세 개 있고 양옆에 큰 블록이 있습니다. 멀리 도시의 불빛이 비칩니다.", "아치 사이로 시야가 겹칩니다. 한 곳에서 쏘고 바로 자리를 옮기세요."],
   d04: ["달빛 마당", "모래색 바닥에 가로로 넓은 1대1 마당입니다. 가운데에 돌 단상이 있고 지붕이 어두운 전각 네 채가 대각선으로 놓여 있습니다.", "가로로 넓어 측면에서 돌아 들어가기 쉽습니다. 단상을 차지하면 양쪽이 보입니다."],
+  ascent_trial: ["좌우가 뒤바뀐 넓은 중앙과 두 설치 구역", "제공받은 블록 맵 구조를 바탕으로 좌우를 뒤집고, 중앙과 각 설치 구역 진입로에 이 게임의 상자 엄폐물을 더한 5대5 지구입니다. 구리색 지붕·푸른 석재·밝은 벽과 조명은 이 게임에서 직접 만들었습니다.", "A 거점은 오른쪽, B 거점은 왼쪽입니다. 중앙의 상자 더미를 끼고 도는 길이 짧습니다."],
 };
 module.exports = (d) => {
   const has = new Set(d.mapImages || []);
@@ -32,7 +33,7 @@ module.exports = (d) => {
   const card = (m) => {
     const t = TEXT[m.key] || ["", "", ""], [kn, kc] = KIND[m.cat] || ["", ""];
     return `<section class="map" id="map-${esc(m.key)}">
-${has.has(m.key) ? `<img src="./assets/site/maps/${esc(m.key)}.webp" alt="${attr(m.name)} 맵을 위에서 본 모습" width="960" height="540" loading="lazy">` : ""}
+${has.has(m.key) ? `<img src="./assets/site/maps/${esc(m.key)}.webp${m.key==='ascent_trial'?'?v=district-own-1':''}" alt="${attr(m.name)} 맵을 위에서 본 모습" width="960" height="540" loading="lazy">` : ""}
 <div class="body"><h3>${esc(m.name)}</h3>
 <p class="facts"><span class="tag ${kc}">${esc(kn)}</span><span class="tag">${m.width}×${m.depth}m</span><span class="tag">사이트 ${esc(m.sites.join(" · "))}</span>${t[0] ? `<span class="tag gold">${esc(t[0])}</span>` : ""}</p>
 <p>${esc(t[1])}</p>${t[2] ? `<p><b>팁</b> ${esc(t[2])}</p>` : ""}</div>

diff --git a/scripts/browser-ascent.js b/scripts/browser-ascent.js
@@ -3,7 +3,7 @@ const {fixture}=require('./browser-fixture');
 (async()=>{
  const f=await fixture();fs.mkdirSync('test-results',{recursive:true});
  try{
-  const page=await f.page('ascenttester',{width:1280,height:720},{},{bootTimeout:120000,hiddenMaps:true});
+  const page=await f.page('ascenttester',{width:1280,height:720},{},{bootTimeout:120000});
   assert.equal(await page.evaluate(()=>ASCENT_TRIAL.status),'idle');
   assert.equal(await page.evaluate(()=>performance.getEntriesByType('resource').filter(r=>r.name.includes('/assets/maps/ascent/')).length),0);
   await page.locator('#go-play').click();
@@ -106,9 +106,9 @@ const {fixture}=require('./browser-fixture');
   });
   console.log('cleanup',cleanup);assert.equal(cleanup.active,false);assert.equal(cleanup.meshes,0);assert.equal(cleanup.imported,0);assert.equal(cleanup.disposed,cleanup.expected);assert.ok(cleanup.floor);assert.equal(cleanup.cell,2.5);
   await page.close();
-  // An ordinary entry: the map (an outside layout) is not in the public list since 2026-11-07, and its 7.8 MB terrain is not downloaded.
+  // The map is public without downloading its 7.8 MB terrain on ordinary entry.
   const normal=await f.page('ascentnormal',{width:960,height:600});
-  assert.deepEqual(await normal.evaluate(()=>({status:ASCENT_TRIAL.status,map:MAP_LIST.some(m=>m.key==='ascent_trial'),requests:performance.getEntriesByType('resource').filter(r=>r.name.includes('/assets/maps/ascent/')).length})),{status:'idle',map:false,requests:0});
+  assert.deepEqual(await normal.evaluate(()=>({status:ASCENT_TRIAL.status,map:MAP_LIST.some(m=>m.key==='ascent_trial'),requests:performance.getEntriesByType('resource').filter(r=>r.name.includes('/assets/maps/ascent/')).length})),{status:'idle',map:true,requests:0});
   assert.deepEqual(f.errors,[]);console.log('Ascent: real keyboard movement, full route physics, wall/body and hitscan collision, cleanup, normal entry isolation passed');
  }finally{await f.browser.close();}
 })().then(()=>process.exit(0),e=>{console.error(e);process.exit(1);});

diff --git a/scripts/site-pages/about.js b/scripts/site-pages/about.js
@@ -18,7 +18,7 @@ module.exports = {
 <h2 id="what">13은 어떤 게임인가요</h2>
 <p>한 팀 다섯 명이 공격과 수비로 나뉘어 겨루는 전술 슈터입니다. 공격 팀은 맵의 두 사이트 가운데 한 곳에 폭탄을 설치하려 하고, 수비 팀은 이를 막거나 설치된 폭탄을 해제하려 합니다. 라운드마다 구매 시간에 무기와 방어구를 고르고, 요원마다 다른 네 가지 능력으로 연막을 치거나 벽을 세우거나 적의 위치를 알아냅니다. 먼저 13라운드를 이기는 팀이 승리합니다.</p>
 <p>게임은 웹 브라우저에서 돌아갑니다. 앱을 설치하거나 별도의 프로그램을 받을 필요 없이 컴퓨터와 스마트폰에서 같은 주소로 들어와 바로 시작할 수 있고, 스마트폰에서는 홈 화면에 추가해서 앱처럼 쓸 수도 있습니다. 혼자서는 AI 봇과 연습하고, 친구와는 초대 코드를 나눠 같은 방에서 함께 할 수 있습니다.</p>
-<p>요원 28명, 맵 21곳, 모드 11종, 총과 수류탄을 갖췄습니다. 자세한 내용은 <a href="./guide.html">게임 소개</a>, <a href="./modes.html">모드</a>, <a href="./maps.html">맵</a>, <a href="./agents.html">요원</a> 페이지에 정리해 두었습니다.</p>
+<p>요원 28명, 맵 22곳, 모드 11종, 총과 수류탄을 갖췄습니다. 자세한 내용은 <a href="./guide.html">게임 소개</a>, <a href="./modes.html">모드</a>, <a href="./maps.html">맵</a>, <a href="./agents.html">요원</a> 페이지에 정리해 두었습니다.</p>
 
 <h2 id="who">누가 만드나요</h2>
 <p>13은 한 명의 독립 개발자가 기획, 프로그래밍, 디자인, 운영을 모두 맡아 만들고 있는 개인 프로젝트입니다. 회사나 큰 팀이 만드는 게임이 아니라서 업데이트는 개발자가 시간을 낼 수 있을 때마다 조금씩 이루어집니다. 무엇이 바뀌었는지는 <a href="./patch-notes.html">패치노트</a>에 기록합니다.</p>

diff --git a/about.html b/about.html
@@ -47,7 +47,7 @@
 <h2 id="what">13은 어떤 게임인가요</h2>
 <p>한 팀 다섯 명이 공격과 수비로 나뉘어 겨루는 전술 슈터입니다. 공격 팀은 맵의 두 사이트 가운데 한 곳에 폭탄을 설치하려 하고, 수비 팀은 이를 막거나 설치된 폭탄을 해제하려 합니다. 라운드마다 구매 시간에 무기와 방어구를 고르고, 요원마다 다른 네 가지 능력으로 연막을 치거나 벽을 세우거나 적의 위치를 알아냅니다. 먼저 13라운드를 이기는 팀이 승리합니다.</p>
 <p>게임은 웹 브라우저에서 돌아갑니다. 앱을 설치하거나 별도의 프로그램을 받을 필요 없이 컴퓨터와 스마트폰에서 같은 주소로 들어와 바로 시작할 수 있고, 스마트폰에서는 홈 화면에 추가해서 앱처럼 쓸 수도 있습니다. 혼자서는 AI 봇과 연습하고, 친구와는 초대 코드를 나눠 같은 방에서 함께 할 수 있습니다.</p>
-<p>요원 28명, 맵 21곳, 모드 11종, 총과 수류탄을 갖췄습니다. 자세한 내용은 <a href="./guide.html">게임 소개</a>, <a href="./modes.html">모드</a>, <a href="./maps.html">맵</a>, <a href="./agents.html">요원</a> 페이지에 정리해 두었습니다.</p>
+<p>요원 28명, 맵 22곳, 모드 11종, 총과 수류탄을 갖췄습니다. 자세한 내용은 <a href="./guide.html">게임 소개</a>, <a href="./modes.html">모드</a>, <a href="./maps.html">맵</a>, <a href="./agents.html">요원</a> 페이지에 정리해 두었습니다.</p>
 
 <h2 id="who">누가 만드나요</h2>
 <p>13은 한 명의 독립 개발자가 기획, 프로그래밍, 디자인, 운영을 모두 맡아 만들고 있는 개인 프로젝트입니다. 회사나 큰 팀이 만드는 게임이 아니라서 업데이트는 개발자가 시간을 낼 수 있을 때마다 조금씩 이루어집니다. 무엇이 바뀌었는지는 <a href="./patch-notes.html">패치노트</a>에 기록합니다.</p>

diff --git a/patch-notes.html b/patch-notes.html
@@ -35,7 +35,7 @@
 <p class="lead">13은 거의 매일 조금씩 바뀝니다. 새로 생긴 기능과 고친 문제를 날짜별로, 가장 최근 것부터 적었습니다. 의견이나 버그는 <a href="./contact.html">문의 페이지</a>로 보내 주세요.</p>
 <section class="rel" id="d2026-11-07">
 <h2>랭크전 정리 · 티어는 성장으로 · 우리 것으로 바꾸기<time datetime="2026-11-07">2026년 11월 7일</time></h2>
-<h3 class="bal">개선</h3><ul><li>순위를 거는 랭크전, 시즌, AI 경쟁전을 없앴습니다. 대신 경험치로 쌓이는 성장이 티어(구리 ~ 왕좌)로 보입니다. 레벨 숫자는 더 이상 보이지 않습니다.</li><li>총의 탄창·연사·장전·가격을 이 게임의 수치로 바꿨습니다.</li><li>전광의 능력을 새로 설계했습니다. 이중 전격은 붙어서 두 번 터지고, 전류 장막은 앞에 가로 장막 하나를 세웁니다.</li><li>황혼 지구는 공개 맵 목록에서 뺐습니다. 맵은 21곳이고, 이번 주 맵을 포함하면 22곳입니다.</li></ul>
+<h3 class="bal">개선</h3><ul><li>순위를 거는 랭크전, 시즌, AI 경쟁전을 없앴습니다. 대신 경험치로 쌓이는 성장이 티어(구리 ~ 왕좌)로 보입니다. 레벨 숫자는 더 이상 보이지 않습니다.</li><li>총의 탄창·연사·장전·가격을 이 게임의 수치로 바꿨습니다.</li><li>전광의 능력을 새로 설계했습니다. 이중 전격은 붙어서 두 번 터지고, 전류 장막은 길 양옆에 뒤가 보이지 않는 연막 장막을 세웁니다.</li><li>황혼 지구의 구조를 바꿨습니다. 좌우가 뒤바뀌어 A 거점이 오른쪽, B 거점이 왼쪽에 있고, 중앙과 각 거점 진입로에 상자 엄폐물이 생겼습니다.</li></ul>
 <h3 class="fix">수정</h3><ul><li>항복 투표는 모든 팀 모드에서 그대로 쓸 수 있습니다.</li></ul>
 </section>
 <section class="rel" id="d2026-11-04">

diff --git a/scripts/browser-mobile-map.js b/scripts/browser-mobile-map.js
@@ -3,7 +3,7 @@ const assert=require('node:assert/strict'),fs=require('node:fs'),{fixture}=requi
 // Deploy. On phones selecting a map closes that dropdown automatically.
 (async()=>{const f=await fixture();fs.mkdirSync('test-results/mobile-map',{recursive:true});try{
  const requests=[];
- const p=await f.page('mobileterrain',{width:852,height:393},{isMobile:true,hasTouch:true,deviceScaleFactor:3},{quality:false,bootTimeout:120000,hiddenMaps:true,beforeLoad:async page=>page.on('request',r=>requests.push(r.url()))});
+ const p=await f.page('mobileterrain',{width:852,height:393},{isMobile:true,hasTouch:true,deviceScaleFactor:3},{quality:false,bootTimeout:120000,beforeLoad:async page=>page.on('request',r=>requests.push(r.url()))});
  p.setDefaultTimeout(120000);
  assert.equal(await p.evaluate(()=>SETTINGS.quality),'mobile');
  await p.locator('#go-play').click();await p.locator('#sel-pick').click();await p.locator('#sel-maps button').filter({hasText:/^황혼 지구$/}).click();
@@ -55,7 +55,7 @@ const assert=require('node:assert/strict'),fs=require('node:fs'),{fixture}=requi
  await p.context().close();
  let fail=true,release,requested;
  const requestedPromise=new Promise(r=>requested=r),gate=new Promise(r=>release=r);
- const race=await f.page('mobilerace',{width:960,height:600},{},{bootTimeout:120000,hiddenMaps:true,beforeLoad:async page=>{
+ const race=await f.page('mobilerace',{width:960,height:600},{},{bootTimeout:120000,beforeLoad:async page=>{
   await page.route('**/assets/maps/ascent/geometry.bin?*',async route=>{requested();await gate;if(fail)await route.fulfill({status:503,body:'retry'});else await route.continue();});
  }});
  await race.locator('#go-play').click();await race.locator('#sel-maps button').filter({hasText:/^황혼 지구$/}).click();await race.waitForFunction(()=>ASCENT_TRIAL.status==='ready');await race.locator('#sel-go').click();await race.waitForFunction(()=>ASCENT_TRIAL.active&&!!myActor());
